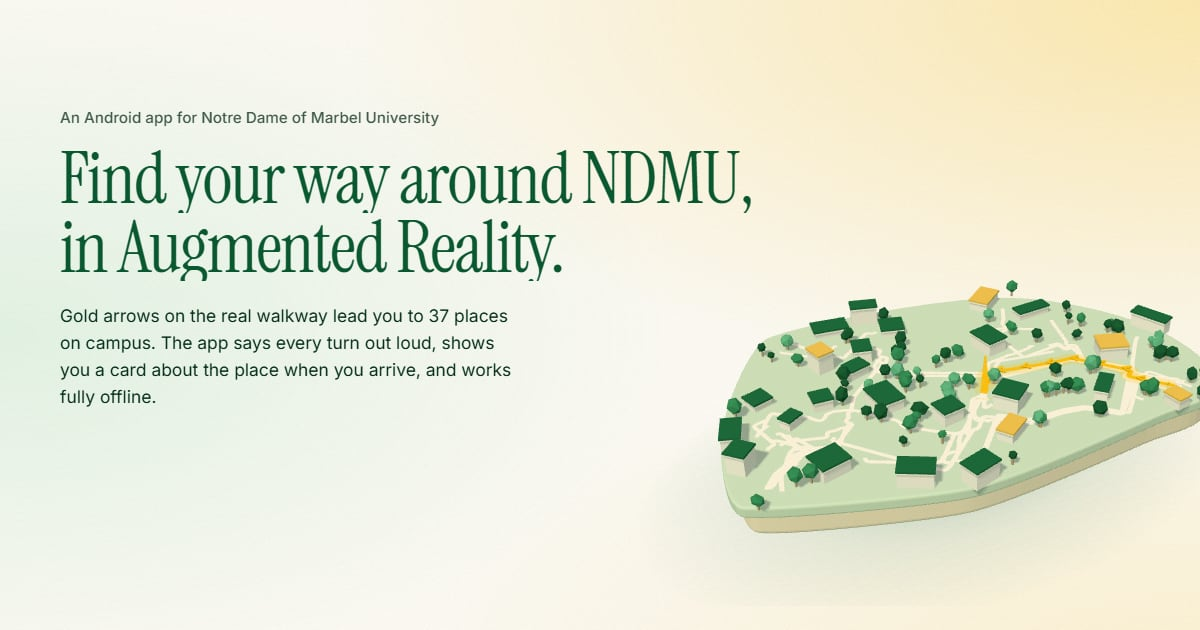
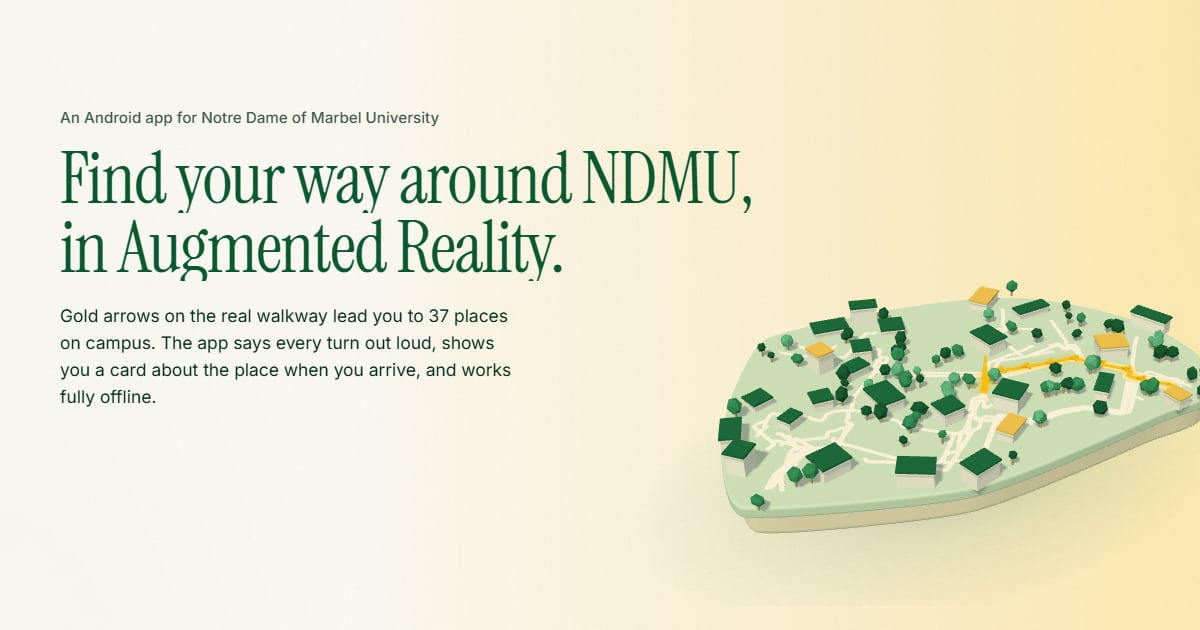
Verification fixes: contrast floor, tour key pause, narrow-screen overflow
- Gradient never drops below a relative luminance of 0.8, so every text
  colour keeps 4.5:1 or better at every hour (it fell to 2.8:1 before)
- Any key now pauses the tour, even while a tour button has focus
- No horizontal overflow at 320 px and 768 px
- Behaviour test script: tour, defense mode, sound, reduced motion,
  WebGL off and contrast

Changed region(s): [[0.5242, 0.2413, 1.0, 0.754], [0.6783, 0.6635, 1.0, 1.0]]

diff --git a/src/scripts/gradient.js b/src/scripts/gradient.js
@@ -52,9 +52,12 @@ void main(){
   col=mix(col,uForestC,smoothstep(.5,1.05,n3*.5+.5)*uDeep);
   // soft light falling from the upper right
   col+=vec3(.05,.045,.02)*smoothstep(-.2,1.1,uv.x*.6+uv.y*.7)*(1.-uDeep);
-  // never let it get darker than the floor, so dark green text keeps its contrast everywhere
-  float L=lum(col);
-  col=mix(col,uPaper,clamp((uFloor-L)/max(uFloor-L+.25,.001)*1.6,0.,1.));
+  // Never darker than the floor, so every text colour keeps at least 4.5:1 over it, everywhere and at every hour.
+  // The floor is a relative luminance (the WCAG measure), so the mix towards paper is done in linear light.
+  vec3 lin=pow(max(col,0.),vec3(2.2)),paperLin=pow(uPaper,vec3(2.2));
+  float L=lum(lin),Lp=lum(paperLin);
+  lin=mix(lin,paperLin,clamp((uFloor-L)/max(Lp-L,.0001),0.,1.));
+  col=pow(lin,vec3(1./2.2));
   // the intro "bloom": the page opens white and the colour flows in
   col=mix(vec3(1.,.992,.965),col,uBloom);
   gl_FragColor=vec4(col,1.);
@@ -168,7 +171,8 @@ export function initGradient() {
     gl.uniform1f(uni.uDeep, clamp(base.deep * state.m, 0, 0.4));
     gl.uniform1f(uni.uZoom, state.z);
     gl.uniform1f(uni.uBloom, state.bloom);
-    gl.uniform1f(uni.uFloor, 0.6);
+    // 0.8 keeps the weakest pair, deep gold text (#8A5A00), above 4.5:1. Paper itself is about 0.98.
+    gl.uniform1f(uni.uFloor, 0.8);
     gl.uniform2f(uni.uCam, state.x, state.y);
     gl.uniform3fv(uni.uPaper, base.paper);
     gl.uniform3fv(uni.uGoldC, base.gold);

diff --git a/src/scripts/tour.js b/src/scripts/tour.js
@@ -139,7 +139,9 @@ export function initTour() {
     if ((e.key === 'p' || e.key === 'P') && !e.metaKey && !e.ctrlKey && !e.altKey) { e.preventDefault(); toggle(); return; }
     if (env.defense) return; // presenter keys are handled in defense.js
     if (['Shift', 'Control', 'Alt', 'Meta', 'Tab'].includes(e.key)) return;
-    stop(e);
+    // Enter or Space on one of the tour's own buttons presses that button; every other key is the visitor taking over
+    if (mine(e) && (e.key === 'Enter' || e.key === ' ')) return;
+    pause();
   });
 
   /* ---------- scene tracking: counter, dots, gradient, sound ---------- */

diff --git a/src/styles/global.css b/src/styles/global.css
@@ -194,7 +194,7 @@ html.defense, html.defense * { cursor: none !important; }
 
 /* ---------- the route spine and its chevron (built in src/scripts/spine.js) ---------- */
 #main { position: relative; }
-.spine { position: absolute; left: 0; top: 0; z-index: 0; pointer-events: none; overflow: visible; }
+.spine { position: absolute; left: 0; top: 0; z-index: -1; pointer-events: none; overflow: visible; }
 .spine path { fill: none; stroke-linecap: round; stroke-linejoin: round; }
 .spine__line { stroke: #f2b200; stroke-width: 2; }
 .spine__glow { stroke: rgb(255 194 14 / 0.3); stroke-width: 9; }
